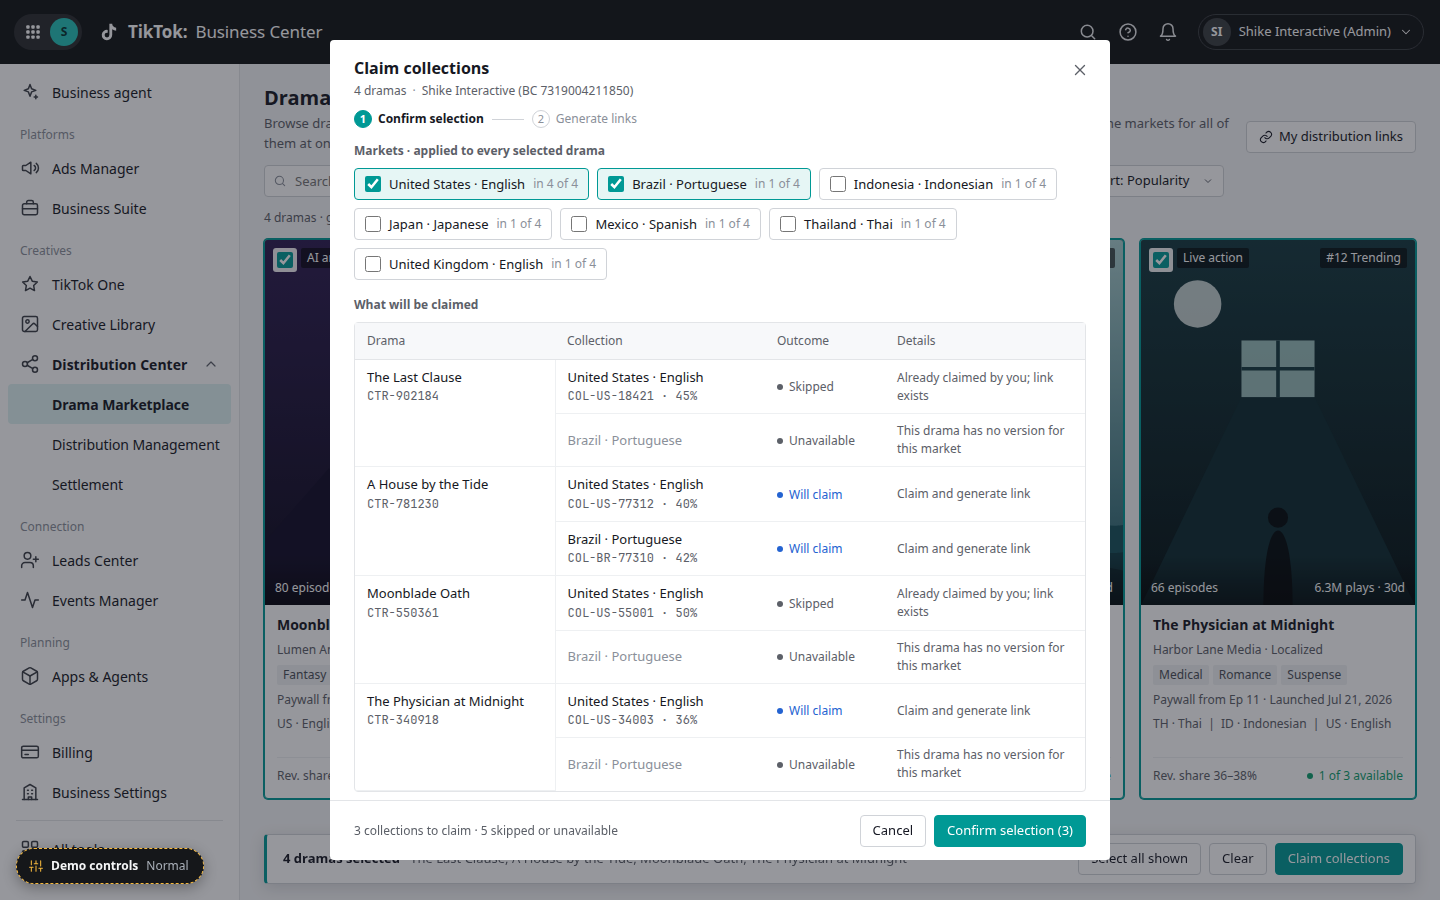
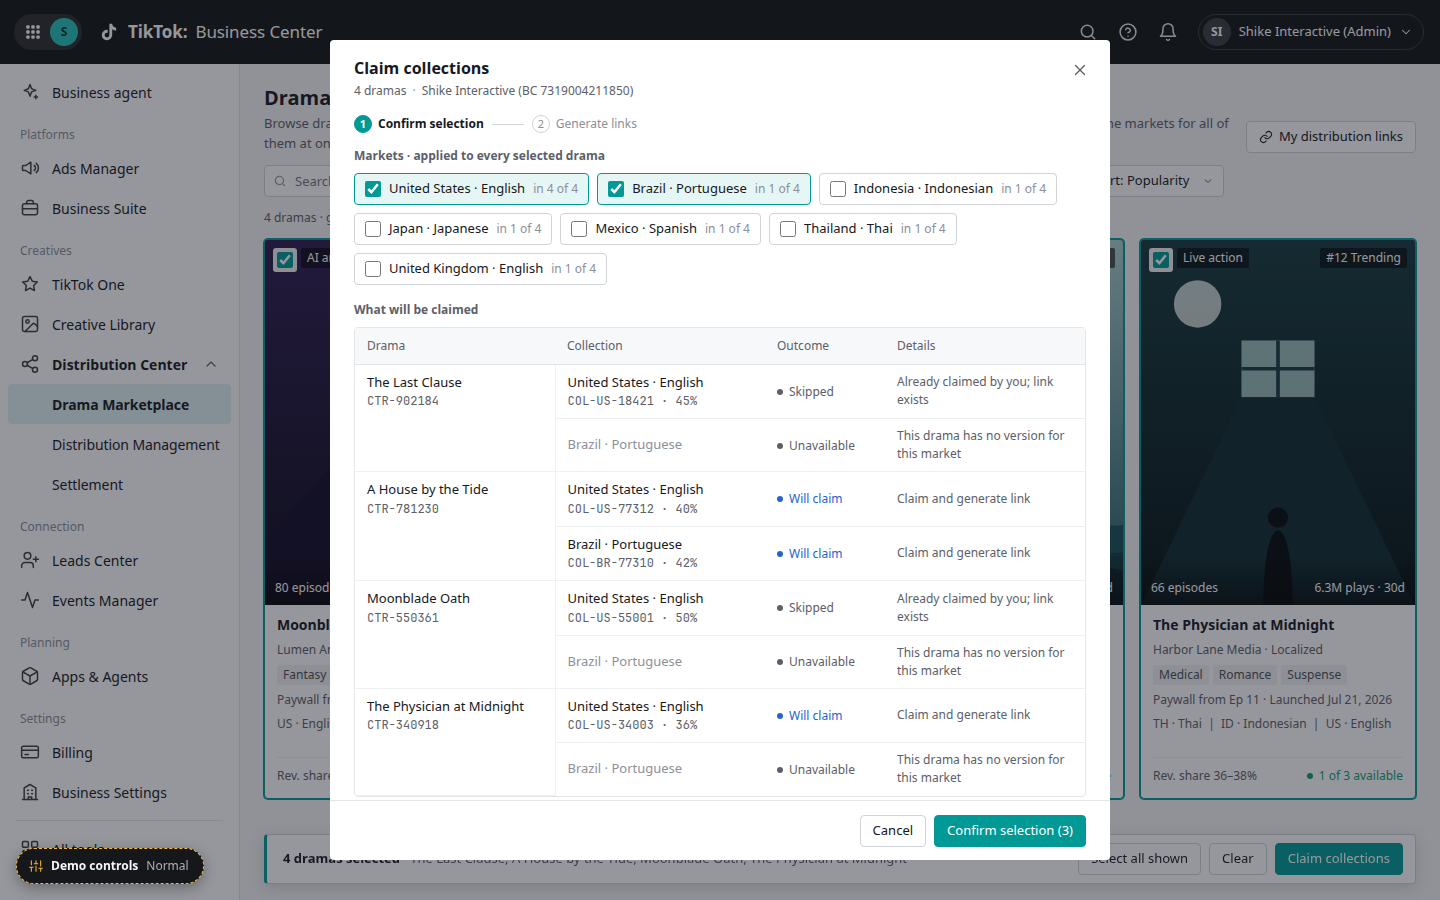
Sync prototype: rename Links ready to Generate links, trim Confirm selection step, refresh screenshots

diff --git a/index.html b/index.html
@@ -932,7 +932,6 @@ function claimFlowModal(){ return CF.results ? linksReadyModal() : confirmSelMod
 function confirmSelModal(){
   const M = CF.ctrs.length; const opts = flowOptions(); const plan = claimPlan();
   const todo = [].concat(...plan.map(p => p.items.filter(i => i.act === 'claim' || i.act === 'link')));
-  const skipN = plan.reduce((a, p) => a + p.items.filter(i => i.act === 'skip' || i.act === 'na').length + (p.missing.length ? 1 : 0), 0);
   const chips = opts.map((o, i) => `<label class="mk-chip ${CF.keys.has(o.k) ? 'on' : ''}"><input type="checkbox" class="cb" name="cf-k${i}" data-chg="cf-key" value="${esc(o.k)}" ${CF.keys.has(o.k) ? 'checked' : ''}>${esc(o.k)}${M > 1 ? `<span class="faint">in ${o.has} of ${M}</span>` : ''}</label>`).join('');
   const OUT = {claim:['info','Will claim'], link:['info','Will get link'], skip:['muted','Skipped'], na:['muted','Unavailable']};
   let rows = '';
@@ -949,11 +948,8 @@ function confirmSelModal(){
       <div class="flow-h">Markets · applied to every selected drama</div>
       <div class="mk-chips">${chips}</div>
       <div class="flow-h" style="margin-top:16px">What will be claimed</div>
-      <div class="panel"><table class="tbl"><thead><tr><th style="width:200px">Drama</th><th style="width:210px">Collection</th><th style="width:120px">Outcome</th><th>Details</th></tr></thead><tbody>${rows}</tbody></table></div>
-      <ul class="muted" style="margin:12px 0 0;padding-left:18px">
-        <li>Confirming claims each collection and generates its distribution link in one go. Each is keyed by Collection ID × your Business Center, so repeating it never creates duplicates.</li>
-        <li>Claiming doesn\u2019t create ads. If a rights holder changes terms while you confirm, that collection isn\u2019t claimed and you\u2019ll see why.</li></ul>`,
-    footer:`<span class="grow">${CF.keys.size ? plural(todo.length, 'collection') + ' to claim' + (skipN ? ' · ' + skipN + ' skipped or unavailable' : '') : 'Pick at least one market'}</span><button class="btn" data-act="close-modal">Cancel</button><button class="btn btn-primary" data-act="cf-submit">Confirm selection${todo.length ? ' (' + todo.length + ')' : ''}</button>`};
+      <div class="panel"><table class="tbl"><thead><tr><th style="width:200px">Drama</th><th style="width:210px">Collection</th><th style="width:120px">Outcome</th><th>Details</th></tr></thead><tbody>${rows}</tbody></table></div>`,
+    footer:`<span class="grow"></span><button class="btn" data-act="close-modal">Cancel</button><button class="btn btn-primary" data-act="cf-submit" ${todo.length ? '' : 'disabled'}>Confirm selection${todo.length ? ' (' + todo.length + ')' : ''}</button>`};
 }
 function runClaim(items){
   const N = items.length;
@@ -1137,7 +1133,7 @@ let LAST_GEN = null;
 function genResultModal(){
   const items = LAST_GEN; const n = k => items.filter(x => x.r === k).length;
   const usable = items.filter(x => (x.r === 'generated' || x.r === 'existed') && linkOf(x.col));
-  const title = n('unknown') ? 'Link generation result pending' : n('failed') ? 'Link generation partially succeeded' : 'Links ready';
+  const title = n('unknown') ? 'Link generation result pending' : n('failed') ? 'Link generation partially succeeded' : 'Generate links';
   return {title, width:720, sub:BCS.main.name + ' · BC ' + BCS.main.id,
     body:`<div class="res-sum"><div><b>${n('generated')}</b>Generated</div><div><b>${n('existed')}</b>Already existed</div><div><b>${n('failed')}</b>Failed</div><div><b>${n('unknown')}</b>Confirming</div></div>
     ${n('unknown') ? banner('warn', 'The link service hasn\u2019t confirmed these yet. <b>Don\u2019t submit again.</b> Retrying is safe (no duplicates), but it\u2019s not needed; use Check again.', '', 'clock') + '<div style="height:12px"></div>' : ''}
@@ -1360,7 +1356,7 @@ const ACT = {
     if (!items.length){ toast('Nothing to claim. The selected dramas have no open, unclaimed versions for these markets.', 'warn'); return; }
     busy(el, 900, () => { CF.results = runClaim(items); UI.pick.clear(); DS.sel = new Set(); refreshModal(); refreshDrawer(); render(); });
   },
-  'cf-recheck': el => busy(el, 700, () => { CF.results.forEach(x => { if (x.r === 'unknown'){ colOf(x.col).claim = 'claimed'; if (!linkOf(x.col)) createLink(x.col); x.r = 'ready'; x.why = ''; } }); refreshModal(); refreshDrawer(); render(); toast('Claims confirmed and links ready.'); }),
+  'cf-recheck': el => busy(el, 700, () => { CF.results.forEach(x => { if (x.r === 'unknown'){ colOf(x.col).claim = 'claimed'; if (!linkOf(x.col)) createLink(x.col); x.r = 'ready'; x.why = ''; } }); refreshModal(); refreshDrawer(); render(); toast('Claims confirmed and links generated.'); }),
   'cf-retry': el => busy(el, 800, () => { CF.results.forEach(x => { if (x.r === 'failed'){ colOf(x.col).claim = 'claimed'; if (!linkOf(x.col)) createLink(x.col); x.r = 'ready'; x.why = 'Claimed on retry with the updated terms.'; } }); refreshModal(); refreshDrawer(); render(); toast('Retry succeeded. Same key, no duplicates.'); }),
   'cf-copy': () => { const ls = flowLinks(); if (!ls.length){ toast('No links are ready to copy yet.', 'warn'); return; } copyText(ls.map(l => l.url).join('\n'), 'Copied ' + plural(ls.length, 'link')); },
   'cf-export': () => { const R = CF.results.filter(x => (x.r === 'ready' || x.r === 'existed') && linkOf(x.col)); if (!R.length){ toast('No links are ready to export yet.', 'warn'); return; }
